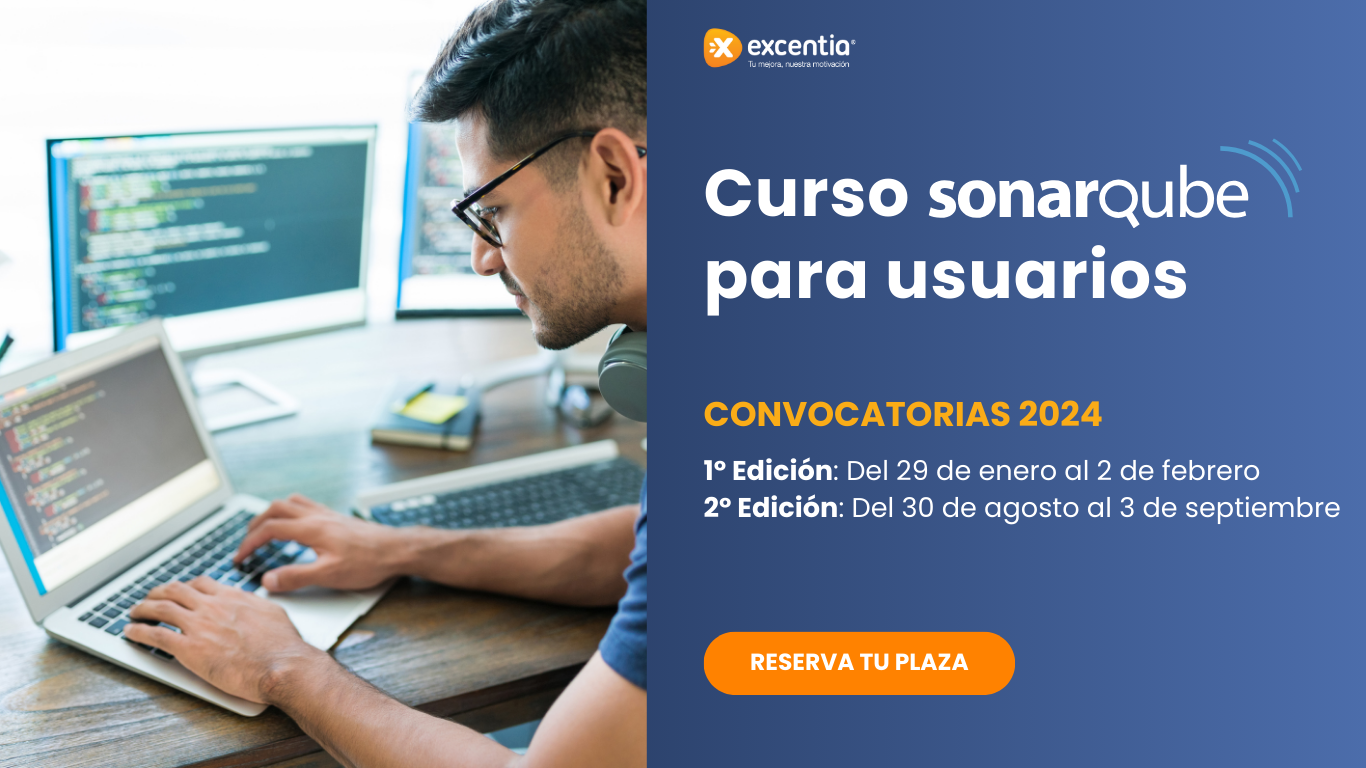
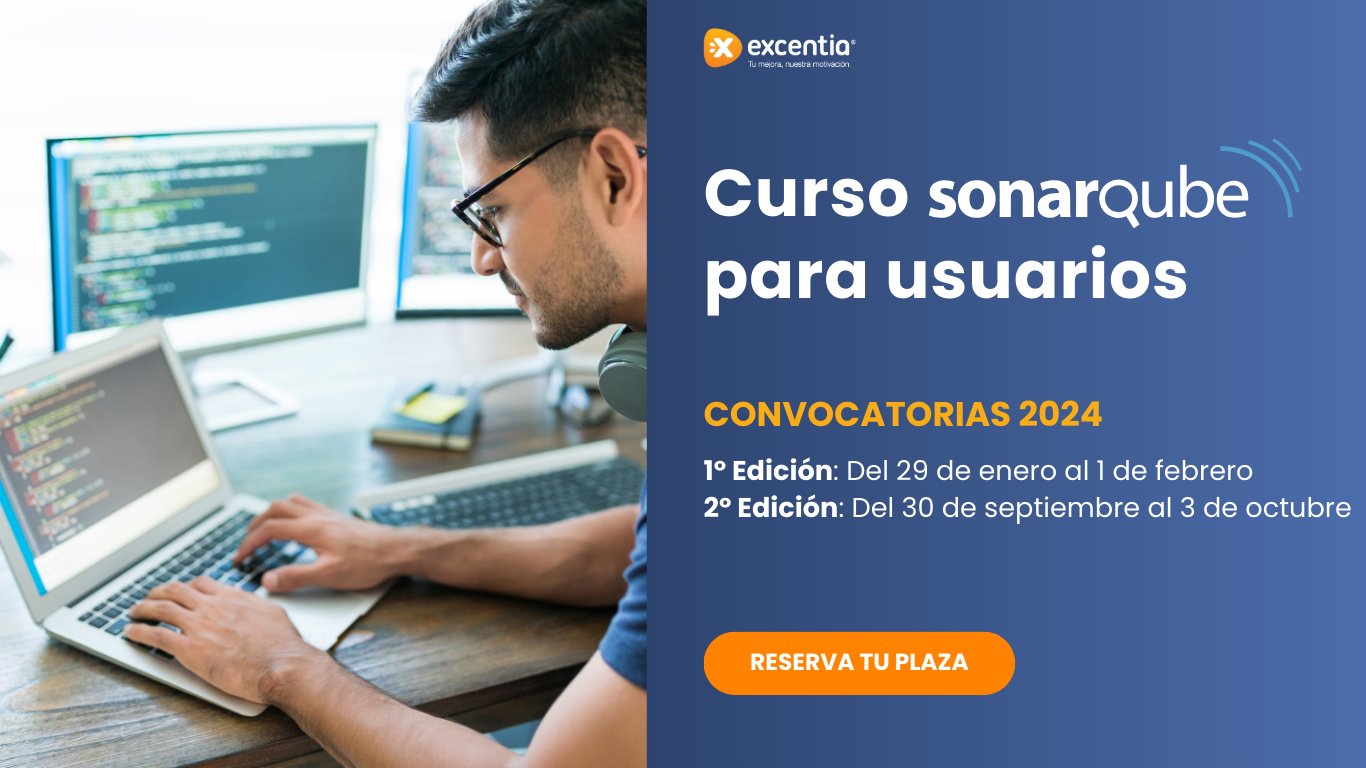
sonarusuarios

Changed region(s): [[0.7072, 0.5938, 1.0, 0.6875]]

diff --git a/curso-sonarqube-usuarios.html b/curso-sonarqube-usuarios.html
@@ -23,12 +23,13 @@ redirect_from:
         </p>
         <p class="header-text">         
           <strong>CONVOCATORIAS 2024:</strong><br>
-          <strong>- 1º Edición</strong>: Del 29 de enero al 2 de febrero.<br>
-          <strong>- 2º Edición</strong>: Del 30 de agosto al 3 de septiembre.<br>
+          <strong>- 1º Edición</strong>: Del 29 de enero al 1 de febrero.<br>
+          <strong>- 2º Edición</strong>: Del 30 de septiembre al 3 de octubre.<br>
+          <strong>- Horario</strong>: De 14:00 a 16:00 horas.<br>
         </p>
         
         <div class="text-left">
-          <a class="btn btn-warning btn-xl" href="/curso-sonarqube-usuarios#curso-formulario">ME APUNTO</a>
+          <a class="btn btn-warning btn-xl" href="https://www.paypal.com/cgi-bin/webscr?cmd=_s-xclick&hosted_button_id=R8K2XBSH3ZCEU">ME APUNTO</a>
         </div>
 
 
@@ -117,12 +118,16 @@ redirect_from:
           resultados.
         </p>
         <h3 style="text-transform: uppercase;padding-top:20px">Convocatorias 2024 </h3>
-        <p class="header-text">- 1º Edición: Del 29 de enero al 2 de febrero.
+        <p class="header-text">- 1º Edición: Del 29 de enero al 1 de febrero.
         <br>
-        - 2º Edición: Del 30 de agosto al 3 de septiembre.
+        - 2º Edición: Del 30 de septiembre al 3 de octubre.
         <h3 style="text-transform: uppercase;padding-top:20px">Duración </h3>
-        <p class="header-text">6h
+        <p class="header-text">8h
         </p>
+        <h3 style="text-transform: uppercase;padding-top:20px">Precio </h3>
+        <p class="header-text">99€
+        </p>
+
         <!-- Próximas convocatorias para cuando no haya activas
 
         <h3 style="text-transform: uppercase;padding-top:20px">PRÓXIMAS CONVOCATORIAS</h3>
@@ -133,8 +138,9 @@ redirect_from:
         </div>
         -->
         <!-- Botón comprar para cuando haya comvocatorias activas -->
+
         <div class="text-left">
-          <a class="btn btn-warning btn-xl" href="/curso-sonarqube-usuarios#curso-formulario">COMPRAR</a>
+          <a class="btn btn-warning btn-xl" href="https://www.paypal.com/cgi-bin/webscr?cmd=_s-xclick&hosted_button_id=R8K2XBSH3ZCEU">COMPRAR</a>
         </div>
 
       </div>
@@ -197,7 +203,7 @@ redirect_from:
         </ul>
         
         <div class="text-left">
-          <a class="btn btn-warning btn-xl" href="/curso-sonarqube-usuarios#curso-formulario">SOLICITAR INFORMACIÓN</a>
+          <a class="btn btn-warning btn-xl" href="https://www.paypal.com/cgi-bin/webscr?cmd=_s-xclick&hosted_button_id=R8K2XBSH3ZCEU">INSCRÍBETE</a>
         </div>
       </div>
       
@@ -210,7 +216,7 @@ redirect_from:
 </section>
 
 
-<!--Contact Form-->
+<!-- FORMULARIO INFO
 <section id="curso-formulario" class="text-center" style="padding: 40px 0">
   <div class="container">
     <div class="row">
@@ -218,7 +224,7 @@ redirect_from:
         <h2>Reserva tu plaza</h2>
         <h3 style="text-transform: uppercase;"><strong>CURSO SONARQUBE PARA USUARIOS</strong></h3>
         <p></p>
-        <form action="https://formspree.io/f/xyyqrdwy" method="POST">
+        <form action="https://www.paypal.com/cgi-bin/webscr?cmd=_s-xclick&hosted_button_id=R8K2XBSH3ZCEU" method="POST">
           <div class="col-md-12 col-sm-12">
             <div class="row control-group">
               <div class="form-group col-xs-12 floating-label-form-group controls">
@@ -260,7 +266,7 @@ redirect_from:
       </div>
     </div>
   </div>
-</section>
+</section>-->
 
 <section id="banner" class="bg-primary text-center" style="background-color: #37394f; padding:30px 0">
   <div class="container">
